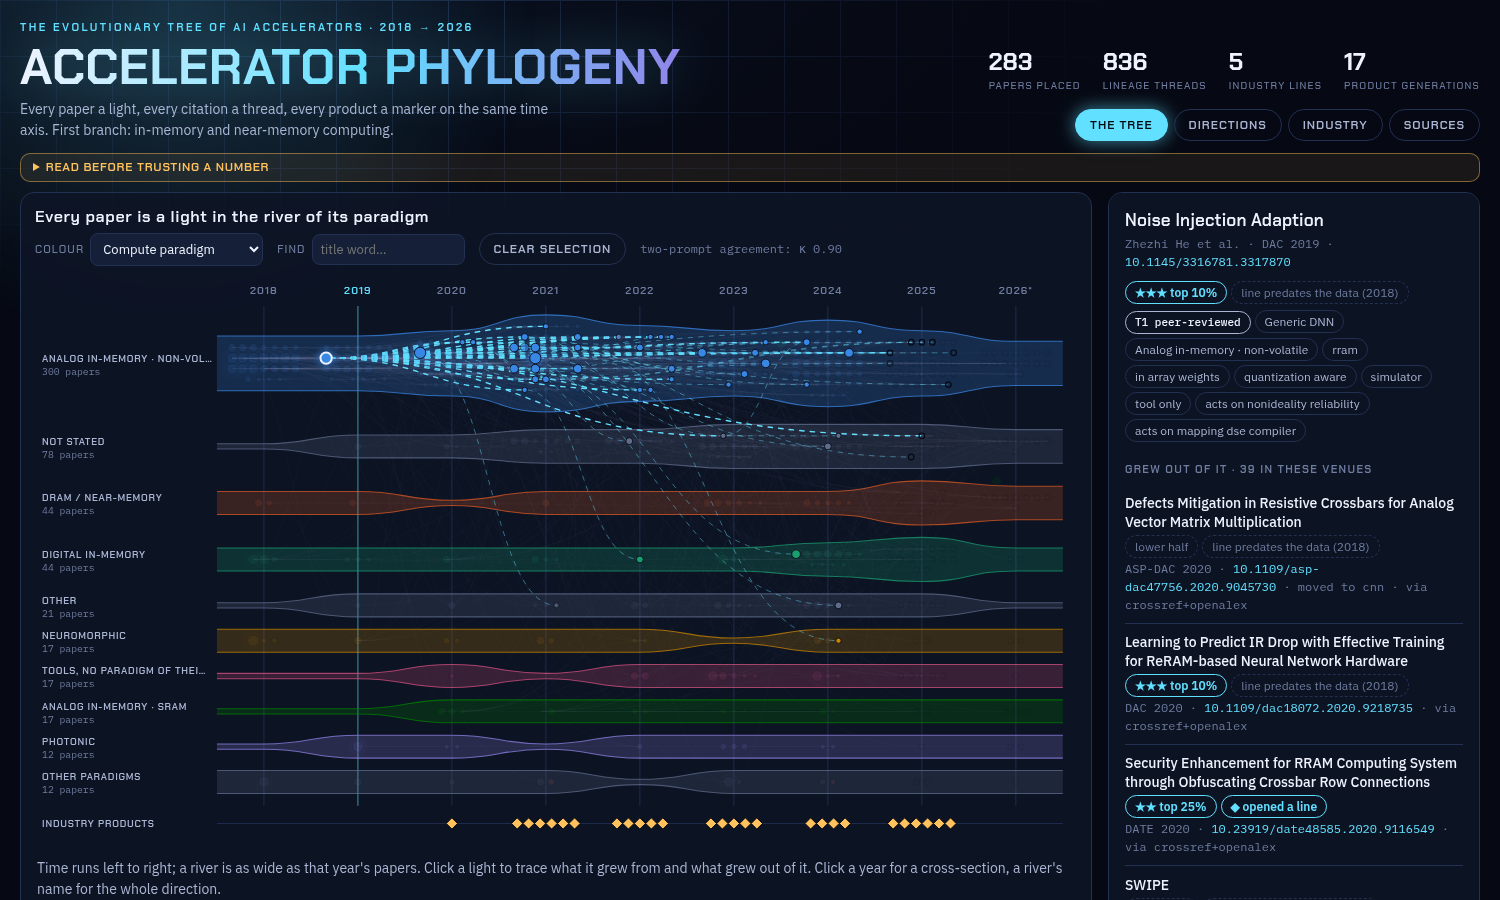
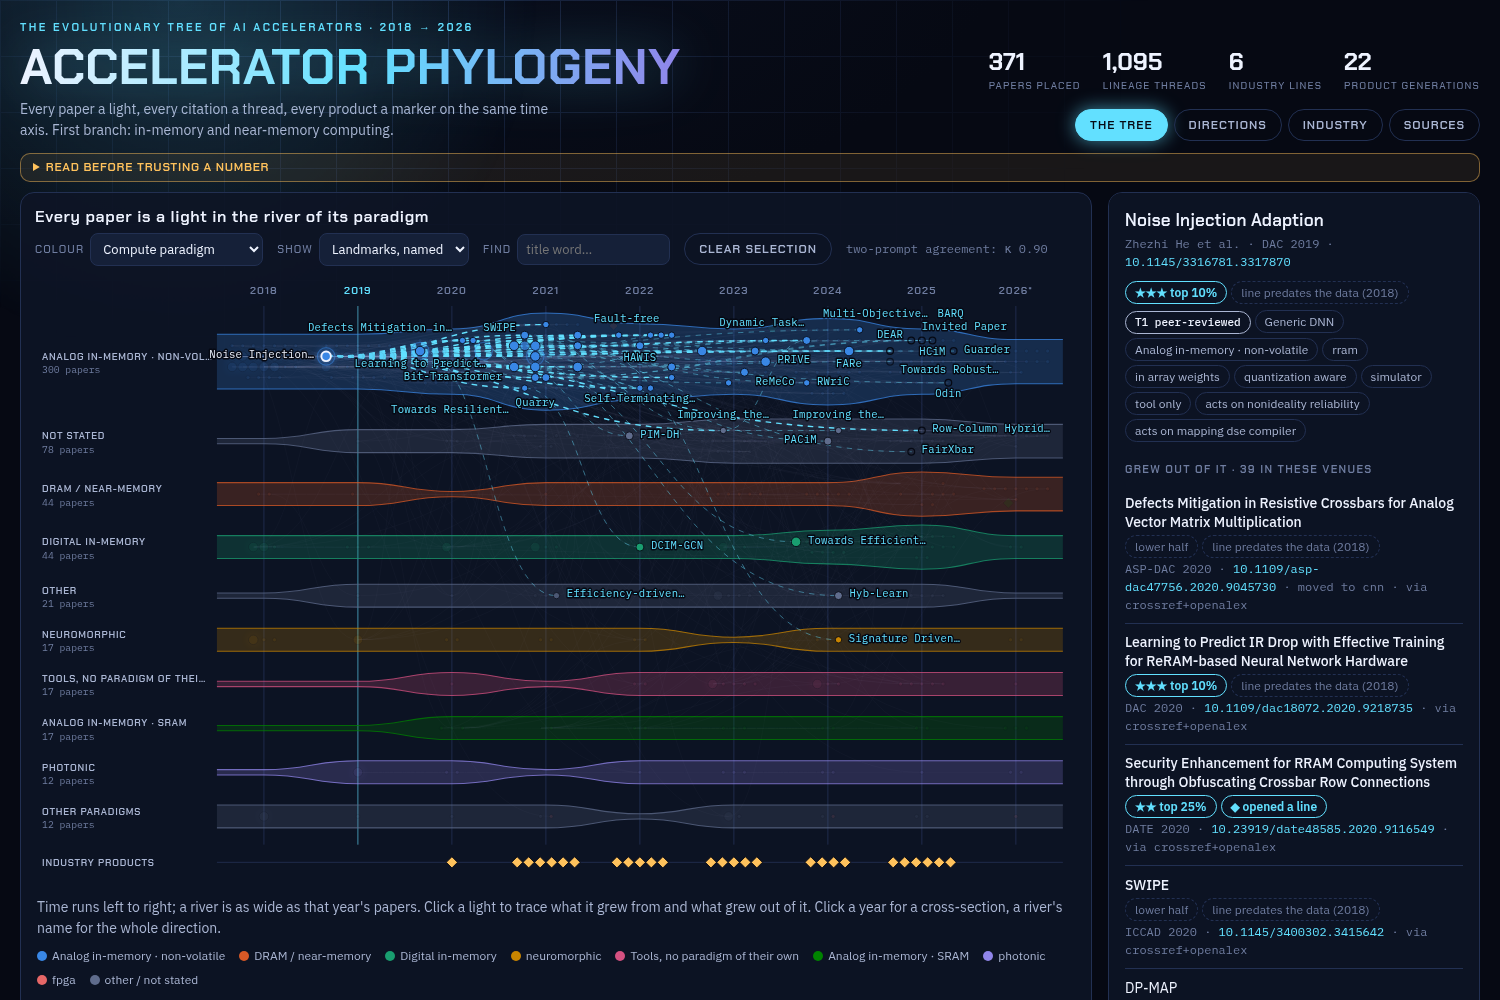
Name landmark papers on the tree; let other papers recede; name a selection's kin

diff --git a/web/app.js b/web/app.js
@@ -17,15 +17,31 @@ const VALUE_NAME = {
 const INFLUENCE_MARK = { top_10: "★★★ top 10%", top_25: "★★ top 25%", upper_half: "★ upper half", lower_half: "lower half", too_early: "too recent to rank" };
 const NOVELTY_MARK = { opened_line: "◆ opened a line", early_entrant: "◇ early entrant", singleton: "○ singleton", predates_data: "line predates the data (2018)" };
 const RADIUS = { top_10: 6.4, top_25: 4.9, upper_half: 3.9, lower_half: 3, too_early: 3.2 };
+const MINOR_RADIUS = 2.3;    // a paper that is not a landmark, when landmarks are being named
+const MAX_LABELS = 80;       // names placed on the tree at once; placement stops earlier if space runs out
+const LABEL_H = 12, LABEL_GAP = 3;   // height of a name label and the clear space kept around it
+const LANE_PAD = 18, LANE_MIN_H = 44;   // room above and below a river's lights, where names go
+const LIFTED_MAX_R = 5.4;             // lights sit on a 12-unit grid: a larger radius would cover a neighbour
+// A landmark is a paper worth naming on the tree without being asked: top 10% of its venue-year,
+// or first of a line that grew, or followed at least 8 times inside these venues.
+const isLandmark = p => p.inf.tier === "top_10" || p.nov.tier === "opened_line" || p.fol.length >= 8;
+const landmarkScore = p => ({ top_10: 3, top_25: 1 }[p.inf.tier] || 0) + (p.nov.tier === "opened_line" ? 3 : p.nov.tier === "early_entrant" ? 1 : 0) + p.fol.length * 0.25;
+function shortName(title) {      // the system name before a colon when there is one, else the first words
+  const head = title.split(/[:：]| - | – | — /)[0].trim();
+  if (head.length >= 2 && head.length <= 22) return head;
+  let out = "";
+  for (const word of title.split(/\s+/)) { if ((out + " " + word).trim().length > 21) break; out = (out + " " + word).trim(); }
+  return out + "…";
+}
 const MIN_SOLID_N = 10;      // below this a bar or stack is hatched: 3 papers must not look like 300
 const LANE_MIN = 12;         // paradigms with fewer papers share one "other paradigms" river
 const KIN_DEPTH = 2;         // generations of ancestors and descendants lit on selection
 const YEARS = Object.keys(D.tables.n_per_year).map(Number);
 const LAST_FULL_YEAR = 2025;
-const state = { view: "tree", sel: null, colorBy: "A1_paradigm", axis: "A1_paradigm", dir: null, pick: null, line: null, gen: 0 };
+const state = { view: "tree", sel: null, show: "landmarks", colorBy: "A1_paradigm", axis: "A1_paradigm", dir: null, pick: null, line: null, gen: 0 };
 const paperById = new Map(D.papers.map(p => [p.id, p]));
 const reducedMotion = window.matchMedia && window.matchMedia("(prefers-reduced-motion: reduce)").matches;
-let firstPaint = true;       // the entrance animation plays once, on the first tree render
+let firstPaint = !location.search;   // the entrance animation plays once; never when a test or screenshot adds a query
 const pretty = v => VALUE_NAME[v] || String(v).replace(/_/g, " ");
 const pct = x => (x * 100).toFixed(x < 0.1 && x > 0 ? 1 : 0) + "%";
 const valuesOf = (p, axis) => axis === "lever" ? p.lever : [p.ax[axis]];
@@ -44,8 +60,9 @@ function el(tag, props, ...children) {
 }
 const s = (tag, props, ...children) => el(tag, { ns: 1, ...props }, ...children);
 const tipBox = document.getElementById("tip");
-function showTip(text, event) {
-  tipBox.textContent = text; tipBox.hidden = false;
+function showTip(content, event) {
+  if (typeof content === "string") tipBox.textContent = content; else tipBox.replaceChildren(...content);
+  tipBox.hidden = false;
   tipBox.style.left = Math.max(8, Math.min(event.clientX + 14, window.innerWidth - 356)) + "px";
   tipBox.style.top = Math.max(8, Math.min(event.clientY + 16, window.innerHeight - 20 - tipBox.offsetHeight)) + "px";
 }
@@ -153,7 +170,7 @@ function layoutTree() {
     const byYear = new Map(YEARS.map(year => [year, []]));
     for (const p of lane.papers) byYear.get(p.y).push(p);
     lane.counts = YEARS.map(year => byYear.get(year).length);
-    lane.h = Math.max(...lane.counts.map(rowsOf)) * gap + 22; lane.mid = y + lane.h / 2;
+    lane.h = Math.max(Math.max(...lane.counts.map(rowsOf)) * gap + LANE_PAD, LANE_MIN_H); lane.mid = y + lane.h / 2;
     YEARS.forEach((year, i) => {
       const list = byYear.get(year).sort((a, b) => tierOrder.indexOf(a.inf.tier) - tierOrder.indexOf(b.inf.tier) || b.fol.length - a.fol.length);
       const rows = rowsOf(list.length), cx = left + colW * (i + 0.5);
@@ -195,11 +212,14 @@ function viewTree(stage, side) {
     el("div", { class: "controls" },
       el("label", {}, "Colour ", el("select", { id: "color-by", onchange: e => go({ colorBy: e.target.value }) },
         ["A1_paradigm", "A0_workload", "A1_device", "lever", "A6_eval_rung", "A7_scale"].map(a => el("option", { value: a, selected: a === state.colorBy ? "" : null, text: AXIS_NAME[a] })))),
+      el("label", {}, "Show ", el("select", { id: "show", onchange: e => go({ show: e.target.value }) },
+        [["landmarks", "Landmarks, named"], ["all", "Every paper alike"]].map(([v, name]) => el("option", { value: v, selected: v === state.show ? "" : null, text: name })))),
       el("label", {}, "Find ", el("input", { type: "search", id: "find", placeholder: "title word…", size: 18,
         onchange: e => { const q = e.target.value.toLowerCase(), hit = q.length > 2 && D.papers.find(p => p.t.toLowerCase().includes(q)); if (hit) pickPaper(hit.id); } })),
       state.sel ? el("button", { class: "chip-btn", id: "clear", text: "Clear selection", onclick: () => go({ sel: null }) }) : null,
       el("span", { class: "meta", text: kappaNote(state.colorBy) })));
   const svg = s("svg", { class: "tree" + (firstPaint && !state.sel ? " intro" : ""), viewBox: `0 0 ${L.W} ${L.H}`, role: "img", "aria-label": "Papers by year and compute paradigm, with citation threads" });
+  stage.append(el("div", { class: "scroll" }, svg));      // in the document now: name widths are measured, not estimated
   YEARS.forEach((year, i) => {
     const x = L.left + L.colW * (i + 0.5), on = year === selYear || (selPaper && selPaper.y === year);
     svg.append(s("line", { class: "year-line" + (on ? " on" : ""), x1: x, x2: x, y1: L.top - 6, y2: L.H - 50 }),
@@ -228,17 +248,56 @@ function viewTree(stage, side) {
       for (const [from, to, depth] of group.edges) svg.append(s("path", { class: "kin" + (depth > 1 ? " far" : ""), d: edgePath(L.pos.get(from), L.pos.get(to)), stroke }));
   }
   const inLane = p => selLane === "__other" ? !L.lanes.some(l => l.key === p.ax.A1_paradigm) : p.ax.A1_paradigm === selLane;
-  for (const p of D.papers) {
-    const at = L.pos.get(p.id), c = colors.get(valuesOf(p, state.colorBy)[0]), r = RADIUS[p.inf.tier], hollow = p.inf.tier === "too_early";
+  const naming = state.show === "landmarks", drawn = new Map();
+  const card = p => [el("b", { class: "tt", text: p.t }), el("span", { class: "tm", text: `${p.v} ${p.y}${p.au ? " · " + p.au + " et al." : ""}` }),
+    el("span", { class: "tm", text: `${pretty(p.ax.A1_paradigm)} · ${pretty(p.ax.A0_workload)}${p.ax.A1_device !== "not_stated" && p.ax.A1_device !== "none" ? " · " + pretty(p.ax.A1_device) : ""}` }),
+    el("span", { class: "tk", text: `${INFLUENCE_MARK[p.inf.tier]}${NOVELTY_MARK[p.nov.tier] ? "  ·  " + NOVELTY_MARK[p.nov.tier] : ""}` }),
+    el("span", { class: "tm", text: `${p.fol.length} follower(s) in these venues · cited ${p.inf.cites} in total · click to trace` })];
+  const ordered = [...D.papers].sort((a, b) => isLandmark(a) - isLandmark(b));       // landmarks are drawn last, on top
+  for (const p of ordered) {
+    const at = L.pos.get(p.id), c = colors.get(valuesOf(p, state.colorBy)[0]), hollow = p.inf.tier === "too_early", land = isLandmark(p);
+    const lifted = land || lit.has(p.id) || (selPaper && selPaper.id === p.id);
+    const r = naming ? (lifted ? Math.min(RADIUS[p.inf.tier] + 0.6, LIFTED_MAX_R) : MINOR_RADIUS) : Math.min(RADIUS[p.inf.tier], LIFTED_MAX_R);
     const dim = (kin && !lit.has(p.id)) || (selYear && p.y !== selYear) || (selLane && !inLane(p));
-    const cls = "dot" + (p.inf.tier === "top_10" ? " star" : "") + (hollow ? " unranked" : "") + (dim ? " dim" : "") + (selPaper && selPaper.id === p.id ? " sel" : "");
-    const common = { class: cls, fill: c, color: c, stroke: hollow ? c : null, style: `--i:${at.i}`, tabindex: 0, "data-id": p.id,
+    const cls = "dot" + (p.inf.tier === "top_10" ? " star" : "") + (hollow && lifted ? " unranked" : "") + (dim ? " dim" : "") + (naming && !lifted && !dim ? " minor" : "") + (selPaper && selPaper.id === p.id ? " sel" : "");
+    if (naming && land && !dim) svg.append(s("circle", { class: "halo", cx: at.x, cy: at.y, r: r + 4.5, stroke: c, style: `--i:${at.i}` }));
+    const common = { class: cls, fill: c, color: c, stroke: hollow && lifted ? c : null, style: `--i:${at.i}`, tabindex: lifted ? 0 : -1, "data-id": p.id,
       onclick: () => pickPaper(p.id), onkeydown: e => e.key === "Enter" && pickPaper(p.id) };
     const shape = p.nov.tier === "opened_line"
-      ? s("rect", { ...common, x: at.x - r, y: at.y - r, width: 2 * r, height: 2 * r, transform: `rotate(45 ${at.x} ${at.y})` })
-      : s("circle", { ...common, cx: at.x, cy: at.y, r, opacity: p.gate === "borderline" && !dim ? 0.6 : null });
-    svg.append(tip(shape, () => `${p.t}\n${p.v} ${p.y} · ${pretty(p.ax.A1_paradigm)} · ${pretty(p.ax.A0_workload)}\n${INFLUENCE_MARK[p.inf.tier]}${NOVELTY_MARK[p.nov.tier] ? " · " + NOVELTY_MARK[p.nov.tier] : ""}\n${p.fol.length} follower(s) in these venues`));
+      ? s("rect", { ...common, x: at.x - r * 0.78, y: at.y - r * 0.78, width: 1.56 * r, height: 1.56 * r, transform: `rotate(45 ${at.x} ${at.y})` })   // a diamond's corners reach r·1.1, inside the grid cell
+      : s("circle", { ...common, cx: at.x, cy: at.y, r, opacity: p.gate === "borderline" && !dim && lifted ? 0.7 : null });
+    svg.append(tip(shape, () => card(p)));
+    drawn.set(p.id, { at, r, dim });
   }
+  // names: the selection and its kin when a paper is chosen, else the leading papers of the year, river or whole tree
+  let toName;
+  if (selPaper) toName = [selPaper, ...[...lit.keys()].filter(id => id !== selPaper.id).map(id => paperById.get(id)).sort((a, b) => lit.get(a.id) - lit.get(b.id) || landmarkScore(b) - landmarkScore(a))];
+  else if (selYear) toName = D.papers.filter(p => p.y === selYear).sort((a, b) => landmarkScore(b) - landmarkScore(a)).slice(0, 18);
+  else if (selLane) toName = D.papers.filter(inLane).sort((a, b) => landmarkScore(b) - landmarkScore(a)).slice(0, 45);
+  else toName = naming ? D.papers.filter(isLandmark).sort((a, b) => landmarkScore(b) - landmarkScore(a)) : [];
+  const taken = [], hits = (a, b) => a.x < b.x + b.w && b.x < a.x + a.w && a.y < b.y + b.h && b.y < a.y + a.h;
+  for (const p of toName) { const d = drawn.get(p.id); taken.push({ x: d.at.x - d.r - 1, y: d.at.y - d.r - 1, w: 2 * d.r + 2, h: 2 * d.r + 2 }); }
+  let named = 0;
+  const ruler = s("text", { class: "plabel", visibility: "hidden", x: 0, y: 0 }); svg.append(ruler);
+  const scale = svg.getBoundingClientRect().width ? L.W / svg.getBoundingClientRect().width : 1;      // screen px -> drawing units
+  for (const p of toName) {
+    if (named >= MAX_LABELS) break;
+    const d = drawn.get(p.id), name = shortName(p.t); ruler.textContent = name;
+    const measured = ruler.getBoundingClientRect().width * scale, w = (measured || name.length * 7.2) + 2 * LABEL_GAP, h = LABEL_H + LABEL_GAP;
+    const x0 = d.at.x, y0 = d.at.y, pad = d.r + 5;
+    const spots = [["start", x0 + pad, y0 - h / 2], ["end", x0 - pad - w, y0 - h / 2], ["middle", x0 - w / 2, y0 - pad - h], ["middle", x0 - w / 2, y0 + pad - 2],
+      ["start", x0 + pad, y0 - pad - h + 3], ["start", x0 + pad, y0 + pad - 5], ["end", x0 - pad - w, y0 - pad - h + 3], ["end", x0 - pad - w, y0 + pad - 5],
+      ["middle", x0 - w / 2, y0 - pad - 2 * h], ["middle", x0 - w / 2, y0 + pad + h - 2], ["start", x0 + pad + 6, y0 - pad - 2 * h + 3], ["end", x0 - pad - 6 - w, y0 + pad + h - 5]]
+      .map(([anchor, x, y]) => ({ anchor, x, y, w, h }));
+    const spot = spots.find(box => box.x >= L.left - 30 && box.x + box.w <= L.W - 4 && box.y >= L.top - 4 && box.y + box.h <= L.H - 58 && !taken.some(other => hits(box, other)));
+    if (!spot) continue;
+    taken.push(spot); named++;
+    const tx = spot.anchor === "start" ? spot.x + LABEL_GAP : spot.anchor === "end" ? spot.x + spot.w - LABEL_GAP : spot.x + spot.w / 2;
+    const role = selPaper ? (p.id === selPaper.id ? " self" : kin.up.seen.has(p.id) ? " up" : " down") : "";
+    svg.append(tip(s("text", { class: "plabel" + role, x: tx, y: spot.y + LABEL_H - 2.5, "text-anchor": spot.anchor, "data-label": p.id, style: `--i:${d.at.i}`,
+      text: name, onclick: () => pickPaper(p.id) }), () => card(p)));
+  }
+  ruler.remove();
   const trackY = L.H - 30;
   svg.append(s("text", { class: "lane-label", x: 8, y: trackY + 4, text: "Industry products" }), s("line", { class: "year-line", x1: L.left, x2: L.W - L.right, y1: trackY, y2: trackY }));
   const generations = D.industry.flatMap(line => line.generations.map((g, k) => ({ line, g, k })));
@@ -248,13 +307,13 @@ function viewTree(stage, side) {
       svg.append(tip(s("rect", { class: "prod", x: cx - 4.5, y: trackY - 4.5, width: 9, height: 9, transform: `rotate(45 ${cx} ${trackY})`, tabindex: 0,
         onclick: () => go({ view: "products", line: x.line.slug, gen: x.k }) }), `${x.line.vendor} — ${x.g.name}\nannounced ${year}\nclick to open`)); });
   });
-  stage.append(el("div", { class: "scroll" }, svg),
+  stage.append(
     el("p", { class: "q", style: "margin:8px 2px 0", text: "Time runs left to right; a river is as wide as that year's papers. Click a light to trace what it grew from and what grew out of it. Click a year for a cross-section, a river's name for the whole direction." }));
   firstPaint = false;
   const legend = el("div", { class: "legend" });
   colors.named.forEach(v => legend.append(el("span", {}, el("i", { style: `background:${colors.get(v)}` }), pretty(v))));
   legend.append(el("span", {}, el("i", { style: "background:var(--c0)" }), "other / not stated"));
-  stage.append(legend, el("div", { class: "legend" }, el("span", { text: "Size = influence inside its own venue and year (largest: top 10%). Hollow = too recent to rank. ◆ = first of a line that later grew. Gold threads lead back to what a paper cites, cyan threads forward to what cites it, two generations each way. * partial year." })));
+  stage.append(legend, el("div", { class: "legend" }, el("span", { text: "Named, ringed lights are landmarks: top 10% of their venue and year, or first of a line that grew (◆), or followed at least 8 times here. The faint small lights are every other paper. A name is the system name before the colon of the title, else its first words; names that would collide are left out, so hover any light. Gold threads lead back to what a paper cites, cyan forward to what cites it. * partial year." })));
   if (selPaper) sidePaper(side, selPaper, kin); else if (selYear) sideYear(side, selYear); else if (selLane) sideLane(side, selLane, L); else sideIntro(side);
 }
 function sideIntro(side) {
@@ -474,6 +533,8 @@ function viewSources(stage, side) {
 try { Object.assign(state, JSON.parse(decodeURIComponent(location.hash.slice(1)))); } catch (error) { /* no saved state */ }
 if (!VIEWS.some(([id]) => id === state.view)) state.view = "tree";
 header(); render();
+// names are placed by measured width, so place them again once the web fonts have replaced the fallback
+if (document.fonts && document.fonts.ready && !document.fonts.check('600 10.5px "Chakra Petch"')) document.fonts.ready.then(() => { firstPaint = false; render(); });
 
 // ---------- layout probe (tests only): open the page with ?probe to append measured geometry as text ----------
 if (location.search === "?probe") setTimeout(() => {
@@ -484,6 +545,15 @@ if (location.search === "?probe") setTimeout(() => {
     const a = dots[i], b = dots[j], dx = (a.left + a.width / 2) - (b.left + b.width / 2), dy = (a.top + a.height / 2) - (b.top + b.height / 2);
     if (Math.hypot(dx, dy) < (Math.min(a.width, a.height) + Math.min(b.width, b.height)) / 2 * 0.75) overlaps++;
   }
+  const labelBoxes = [...document.querySelectorAll(".plabel")].map(n => n.getBoundingClientRect());
+  const landmarks_total = D.papers.filter(isLandmark).length;
+  const cross = (a, b) => a.left < b.right - 1 && b.left < a.right - 1 && a.top < b.bottom - 1 && b.top < a.bottom - 1;
+  let nameOverlaps = 0, namesOverLights = 0;
+  for (let i = 0; i < labelBoxes.length; i++) for (let j = i + 1; j < labelBoxes.length; j++) if (cross(labelBoxes[i], labelBoxes[j])) nameOverlaps++;
+  const halos = [...document.querySelectorAll(".halo")].map(n => n.getBoundingClientRect());
+  for (const lb of labelBoxes) for (const h of halos) { const cx = h.left + h.width / 2, cy = h.top + h.height / 2; if (cx > lb.left && cx < lb.right && cy > lb.top && cy < lb.bottom) namesOverLights++; }
+  const treeBox = document.querySelector("svg.tree") ? document.querySelector("svg.tree").getBoundingClientRect() : null;
+  const namesOutside = treeBox ? labelBoxes.filter(b => b.left < treeBox.left - 1 || b.right > treeBox.right + 1).length : 0;
   const svg = document.querySelector("svg.tree"), plotLeft = svg ? svg.getBoundingClientRect().left + svg.getBoundingClientRect().width * 206 / 1180 : 0;
   const clipped = [...document.querySelectorAll(".card h4, .gen, .tname, nav button, .stat b")].filter(n => n.scrollWidth > n.clientWidth + 1).length;
   const report = {
@@ -493,6 +563,8 @@ if (location.search === "?probe") setTimeout(() => {
     tree: svg ? box(svg) : null, lights: dots.length, overlapping_light_pairs: overlaps,
     lane_labels_reaching_into_plot: [...document.querySelectorAll(".lane-label")].filter(n => n.getBoundingClientRect().right > plotLeft).length,
     clipped_text_elements: clipped,
+    names_on_tree: labelBoxes.length, landmarks_total, overlapping_name_pairs: nameOverlaps, names_outside_tree: namesOutside,
+    names_over_a_landmark_light: namesOverLights, sample_names: [...document.querySelectorAll(".plabel")].slice(0, 10).map(n => n.textContent),
     fonts_loaded: { display: document.fonts.check('700 30px "Chakra Petch"'), body: document.fonts.check('14px "IBM Plex Sans"'), mono: document.fonts.check('12px "IBM Plex Mono"') },
     body_background: getComputedStyle(document.body).backgroundColor, ink: getComputedStyle(document.body).color,
     h1_font_px: parseFloat(getComputedStyle(document.querySelector("h1")).fontSize),

diff --git a/web/index.html b/web/index.html
@@ -60,7 +60,7 @@ h1 { font: 700 clamp(30px, 4vw, 50px)/0.95 var(--display); letter-spacing: 0.01e
 @keyframes rise { from { opacity: 0; transform: translateY(6px) scale(.2); } }
 @keyframes reveal { from { opacity: 0; } }
 .dot { transform-box: fill-box; transform-origin: center; }
-@media (prefers-reduced-motion: reduce) { body::after, .tree.intro .dot, .tree.intro .river, .tree.intro .river-edge { animation: none; } }
+@media (prefers-reduced-motion: reduce) { body::after, .tree.intro .dot, .tree.intro .river, .tree.intro .river-edge, .tree.intro .halo, .tree.intro .plabel { animation: none; } }
 nav { display: flex; gap: 6px; flex-wrap: wrap; }
 nav button, .chip-btn { font: 600 12px/1 var(--display); letter-spacing: 0.08em; text-transform: uppercase; color: var(--ink-2); background: transparent;
   border: 1px solid var(--line); border-radius: 999px; padding: 9px 14px; cursor: pointer; transition: color .15s, border-color .15s, box-shadow .15s; }
@@ -95,6 +95,12 @@ svg { display: block; }
 .dot.unranked { fill: transparent !important; stroke-width: 1.4; }
 .dot.star { filter: drop-shadow(0 0 calc(5px * var(--glow)) currentColor); }
 .dot.dim { opacity: .1; } .dot.sel { stroke: var(--ink); stroke-width: 2.2; }
+.dot.minor { opacity: .34; stroke-width: .5; }
+.halo { fill: none; stroke-width: 1.3; opacity: .5; pointer-events: none; }
+.plabel { font: 600 10.5px var(--display); letter-spacing: .02em; fill: var(--ink); paint-order: stroke; stroke: var(--bg); stroke-width: 3.2px; stroke-linejoin: round; cursor: pointer; }
+.plabel:hover { fill: var(--accent); } .plabel.self { fill: var(--ink); font-size: 12px; } .plabel.up { fill: var(--c4); } .plabel.down { fill: var(--accent); }
+.tree.intro .halo, .tree.intro .plabel { animation: reveal .8s ease-out both; animation-delay: calc(var(--i) * 95ms + 500ms); }
+#tip .tt { display: block; font: 600 13px/1.3 var(--display); margin-bottom: 4px; } #tip .tm { display: block; opacity: .78; } #tip .tk { display: block; font-weight: 600; margin: 3px 0; }
 .kin { fill: none; stroke-width: 1.6; stroke-linecap: round; stroke-dasharray: 5 7; animation: flow 1.4s linear infinite; }
 .kin.far { stroke-width: 1; opacity: .5; }
 @keyframes flow { to { stroke-dashoffset: -24; } }

diff --git a/tests/test_page.py b/tests/test_page.py
@@ -19,7 +19,7 @@ outside_only = next(p for p in PAPERS if not p["fol"] and p["cit"]["status"] == 
 
 
 def render(state):
-    url = PAGE + "#" + urllib.parse.quote(json.dumps(state))
+    url = PAGE + "?test#" + urllib.parse.quote(json.dumps(state))   # a query switches the entrance animation off
     with tempfile.TemporaryDirectory() as profile:
         result = subprocess.run(["google-chrome", "--headless=new", "--no-sandbox", "--disable-gpu", f"--user-data-dir={profile}",
                                  "--enable-logging=stderr", "--v=0", "--virtual-time-budget=5000", "--dump-dom", url],
@@ -57,6 +57,11 @@ def tree_shape(dom):
         problems.append("fewer than four rivers drawn")
     if "class=\"kin" in dom:
         problems.append("kinship threads drawn with nothing selected")
+    names = re.findall(r'class="plabel[^"]*"[^>]*>([^<]+)<', dom)
+    if len(names) < 30:
+        problems.append(f"only {len(names)} landmark names on the tree, expected at least 30")
+    if len(dom.split('class="halo"')) - 1 < 50:
+        problems.append("fewer than 50 landmark halos drawn")
     products = sum(1 for line in DATA["industry"] for g in line["generations"] if g["year_announced"] and 2018 <= g["year_announced"] <= 2026)
     if dom.count('class="prod"') != products:
         problems.append(f"{dom.count('class=\"prod\"')} product markers for {products} dated generations")
@@ -70,12 +75,16 @@ def kin_threads(paper):
         problems = [] if drawn >= direct else [f"{drawn} threads drawn, at least {direct} direct in-slice links expected"]
         if dom.count(" sel\"") != 1:
             problems.append("exactly one light should be marked selected")
+        if 'class="plabel self"' not in dom:
+            problems.append("the selected paper is not named on the tree")
+        if dom.count('class="plabel down"') + dom.count('class="plabel up"') < min(direct, 5):
+            problems.append("the selection's kin are not named on the tree")
         return problems
     return expect
 
 
 results = [
-    check("hero and tree", {"view": "tree"}, ["Accelerator Phylogeny", "papers placed", "lineage threads", "Every paper is a light", "Start anywhere", "Industry products"], tree_shape),
+    check("hero and tree", {"view": "tree"}, ["Accelerator Phylogeny", "papers placed", "lineage threads", "Every paper is a light", "Start anywhere", "Industry products", "Landmarks, named", "ReTransformer"], tree_shape),
     check("tree coloured by workload", {"view": "tree", "colorBy": "A0_workload"}, ["LLM (autoregressive)", "two-prompt agreement"]),
     check("paper selected: threads", {"view": "tree", "sel": {"type": "paper", "id": followed["id"]}}, ["Grew out of it", "Grew from", followed["t"][:40], "Lit on the tree", "via "], kin_threads(followed)),
     check("marks on a marked paper", {"view": "tree", "sel": {"type": "paper", "id": marked["id"]}}, ["★★★ top 10%", "◆ opened a line", "T1 peer-reviewed"]),
